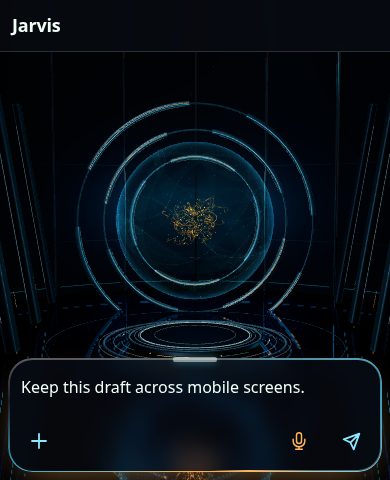
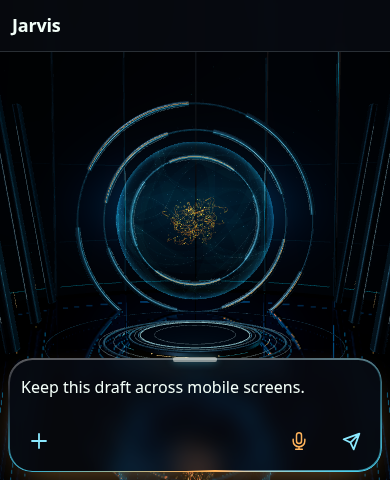
fix(web): keep voice composer variant on mobile Chat only

diff --git a/apps/web/src/App.test.tsx b/apps/web/src/App.test.tsx
@@ -713,7 +713,7 @@ describe('App shell', () => {
     await waitFor(() => expect(screen.queryByText('Waking Jarvis…')).toBeNull());
   });
 
-  it('keeps active phone voice available after leaving Chat and hides typing controls when voice ends off Chat', async () => {
+  it('keeps phone voice running internally off Chat and restores its controls only on Chat', async () => {
     vi.stubGlobal('matchMedia', vi.fn((query: string) => ({
       matches: query.includes('max-width: 700px'),
       media: query, addEventListener: vi.fn(), removeEventListener: vi.fn(),
@@ -728,13 +728,14 @@ describe('App shell', () => {
     const heading = await screen.findByRole('heading', { level: 1, name: 'Settings' });
     expect(shell.getAttribute('data-voice-active')).toBe('true');
     expect(screen.getByRole('heading', { level: 1, name: 'Settings' })).toBe(heading);
-    await user.click(screen.getByRole('button', { name: 'Menu' }));
-    expect(screen.getByRole('button', { name: 'Menu' }).getAttribute('aria-expanded')).toBe('true');
-    await user.keyboard('{Escape}');
+    expect(screen.queryByRole('button', { name: 'End voice' })).toBeNull();
+    expect(screen.queryByRole('textbox', { name: 'Message Jarvis' })).toBeNull();
+    expect(document.querySelector('.conversation-input-slot')?.hasAttribute('hidden')).toBe(true);
+    await user.click(screen.getByRole('link', { name: 'Chat' }));
+    expect(shell.getAttribute('data-voice-active')).toBe('true');
     await user.click(screen.getByRole('button', { name: 'End voice' }));
     expect(shell.getAttribute('data-voice-active')).toBe('false');
-    expect(screen.queryByRole('textbox', { name: 'Message Jarvis' })).toBeNull();
-    expect(screen.getByRole('heading', { level: 1, name: 'Settings' })).toBe(heading);
+    expect(screen.getByRole('textbox', { name: 'Message Jarvis' })).not.toBeNull();
   });
 
   it('enters fullscreen voice immediately and restores the typing shell when voice ends', async () => {

diff --git a/apps/web/src/styles.css b/apps/web/src/styles.css
@@ -3310,8 +3310,8 @@ a.task-chip:hover { background: var(--glass-pressed); }
 .mobile-bottom-nav-link:is([aria-current="page"], [aria-pressed="true"], [aria-expanded="true"]) svg { color: var(--focus); stroke-width: 2.1; }
 .mobile-bottom-nav-link:active svg { color: var(--focus); }
 .mobile-bottom-nav-link:focus-visible { outline: 3px solid var(--focus); outline-offset: -3px; }
-/* Other phone pages reserve navigation space only; active voice keeps its existing dock. */
-.app-shell[data-phone="true"][data-home="false"][data-voice-active="false"] { --dock-space: var(--phone-dock-bottom); }
+/* Other phone pages reserve navigation space only. */
+.app-shell[data-phone="true"][data-home="false"] { --dock-space: var(--phone-dock-bottom); }
 /* The mounted chat/voice session retains its existing placement across routes. */
 .app-shell[data-phone="true"][data-home="false"]:not(.app-signed-out) .jarvis-page { right: calc(env(safe-area-inset-right) + 8px); bottom: var(--phone-dock-bottom); left: calc(env(safe-area-inset-left) + 8px); max-width: none; }
 .app-shell[data-phone="true"][data-home="false"]:not(.app-signed-out) .workspace-shell-area { top: calc(env(safe-area-inset-top) + var(--rail-size) + 8px); right: calc(env(safe-area-inset-right) + 8px); bottom: var(--dock-space); left: calc(env(safe-area-inset-left) + 8px); }

diff --git a/apps/web/src/ConversationHistory.tsx b/apps/web/src/ConversationHistory.tsx
@@ -304,7 +304,9 @@ export function ConversationHistory({
   const setComposerHeight = conversationWindow?.setComposerHeight;
   useLayoutEffect(() => {
     const bar = inputBar.current;
-    if (!bar || voiceActive || !setComposerHeight) return;
+    if (!bar || !setComposerHeight) return;
+    if (!composerVisible) { setComposerHeight(0); return; }
+    if (voiceActive) return;
     const measure = () => setComposerHeight(bar.offsetHeight);
     measure();
     if (typeof ResizeObserver !== 'function') return;
@@ -1135,7 +1137,7 @@ export function ConversationHistory({
         conversationWindow.element,
       )}
 
-      <div className="conversation-input-slot" hidden={!composerVisible && !voiceActive} data-positioned={Boolean(conversationWindow?.position) || undefined}>
+      <div className="conversation-input-slot" hidden={!composerVisible} data-positioned={Boolean(conversationWindow?.position) || undefined}>
       <div ref={inputBar} className="conversation-input-stack"
         style={conversationWindow?.position ? {
           position: 'fixed', left: conversationWindow.position.left, top: conversationWindow.position.top,

diff --git a/docs/ui/screenshots/mobile-chat-only-1303/README.md b/docs/ui/screenshots/mobile-chat-only-1303/README.md
@@ -10,8 +10,8 @@ Use the same `/` predicate as the Chat navigation link. On phone routes other th
 Chat, the message composer slot is hidden and the chat viewport hook is disabled.
 The conversation stays mounted to preserve drafts, attachments and session state.
 Hidden-input autofocus is suppressed; leaving while focused blurs it. The slot is
-remeasured and off-Chat pages reserve navigation clearance only. Desktop and active
-voice controls retain their previous behavior. Workspaces and Menu remain overlays
+remeasured and off-Chat pages reserve navigation clearance only. Desktop is unchanged. Voice sessions remain mounted internally, but their
+composer controls are also visible only on Chat. Workspaces and Menu remain overlays
 on the current route, not new page routes. Camera preview styling is untouched.
 
 ## Checks and inspected screenshots

diff --git a/docs/decisions.md b/docs/decisions.md
@@ -5,7 +5,8 @@
 Use the same `/` route predicate as the Chat navigation control. Hide the phone
 typing slot rather than unmounting its conversation/session owner, so drafts and
 ongoing turns survive navigation. Disable the chat viewport hook off Chat and
-prevent hidden-input focus. Desktop and active voice controls are unchanged.
+prevent hidden-input focus. Desktop is unchanged. Voice sessions remain mounted; their composer controls
+are also visible only on Chat.
 Menu and Workspaces are existing overlays, not additional page routes.
 
 ## Stable menu material and shared chrome (#1301; 26 October 2026)

diff --git a/DESIGN.md b/DESIGN.md
@@ -5,7 +5,8 @@
 The phone message composer is visible on the Chat route only. Other pages keep
 their navigation clearance without reserving the hidden composer height. Keep
 the conversation mounted to retain drafts/session state; returning to Chat reveals
-the existing composer. Desktop and active voice controls retain their behavior.
+the existing composer. Desktop is unchanged; voice sessions stay mounted but their composer controls
+are also visible only on Chat.
 Menu and Workspaces remain overlays on the current route.
 
 ## Settled glass correction (#1301; 26 October 2026)

diff --git a/docs/architecture.md b/docs/architecture.md
@@ -539,7 +539,7 @@ viewport without inset or earlier height history leaves navigation available.
 ConversationHistory remains mounted and hides its typing slot off Chat on phones;
 it suppresses hidden-input autofocus and remeasures the visible dock. The phone
 chat viewport hook is enabled only on Chat. Other pages reserve navigation space
-only; desktop and active voice controls retain their existing behavior.
+only; desktop stays unchanged and voice composer controls are also Chat-only.
 
 ## Chat rendering and explicit phone viewport (16 October 2026; local candidate)
 
